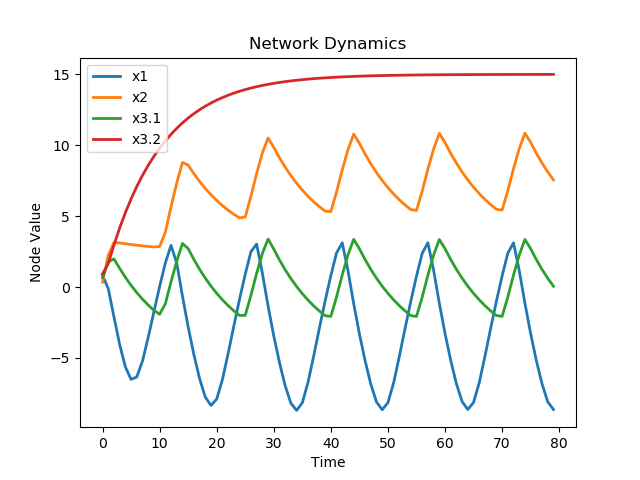
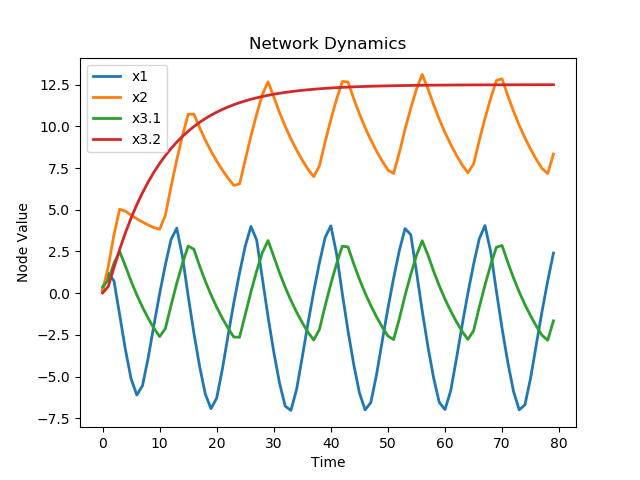
new major test cases

diff --git a/code/workbook.py b/code/workbook.py
@@ -9,39 +9,31 @@ import autograd.numpy as anp
 
 if __name__ == "__main__":
     reload(s)
-    # A = np.array([
-    #     [0,0,0,0,0,0,1],
-    #     [1,0,1,1,0,0,0],
-    #     [0,1,0,0,0,0,0],
-    #     [0,0,1,0,0,0,0],
-    #     [0,0,1,0,0,0,0],
-    #     [0,0,0,1,1,0,1],
-    #     [0,0,0,1,0,1,0]
-    # ])
-    # labels = ["a", "b", "c", 'd','e','f','g']
 
     def sig(x):
-        # print(x)
         return anp.tanh(x)
     def sig2(x):
         y = -2.0*anp.tanh(x)
         return y
     def zero(x):
         return 0*x
+    def chaotic_func1(x):
+        y = anp.tanh(4*x*(1-x)) + 1.75
+        return y
+    def chaotic_func2(x):
+        y = anp.tanh(4*x*(1-x)) + 1.25
+        return y
+    def chaotic_func3(x):
+        y = anp.tanh(4*x*(1-x)) + 0.25
+        return y
     def func1(x):
-        # print(x)
-        y = 9/10*x + 7/4
-        # print(y)
+        y = (9/10)*x + 1.75
         return y
     def func2(x):
-        # print(x)
-        y = 9/10 * x + 5/4
-        # print(y)
+        y = (9/10)*x + 1.25
         return y
     def func3(x):
-        # print(x)
-        y = 9/10 * x + 2/4
-        # print(y)
+        y = (9/10)*x + 0.5
         return y
 
     # basic cohen-grossberg neural network
@@ -55,42 +47,14 @@ if __name__ == "__main__":
         [ sig, zero, zero],
         [ sig, sig, zero]
     ])
-    a = np.array([func1, func2, func3])
+    a = np.array([chaotic_func1, chaotic_func2, chaotic_func3])
     labels = ['x1', 'x2', 'x3']
 
-    # after the first specialization
-    # C = np.array([[0,0,0,1],[0,0,0,1],[0,1,0,0],[1,0,1,0]])
-    # labels2 = ['y1', 'y2', 'y3', 'y4']
-    # b = np.array([func1, func1, func2, func3])
-    # g = np.array([[zero, zero, zero, sig2],
-    #                 [zero, zero, zero, sig2],
-    #                 [zero, sig, zero, zero],
-    #                 [sig, zero, sig, zero]])
-
-
-    # H = s.DirectedGraph(C, (b,g), labels=labels2)
-    # H.iterate(80, np.random.random(H.n), graph=True, save_img=True, title='first spec hard code corrected')
-
-
     G = s.DirectedGraph(B, (a,f), labels=labels)
-    print(G.eigen_centrality(), '\n')
-    print(G.detect_sync(), '\n')
-    # G.iterate_with_perterbations(1000, np.random.random(G.n), ([500], 150), graph=True, save_img=False, title="3 nodes")
 
-    G.specialize(['x1', 'x2'], verbose=False)
-    # G.iterate_with_perterbations(1000, np.random.random(G.n), ([500], 150), graph=True, save_img=False, title="3 nodes")
-    G.iterate(80, np.random.random(G.n), graph=True, save_img=True, title='../graphs/spec on x1, x2')
-    print(G.eigen_centrality(), '\n')
-    print(G.detect_sync(), '\n')
-
-    G.specialize(['x2', 'x3.1', 'x3.2'], verbose=False)
-    # G.iterate_with_perterbations(1000, np.random.random(G.n), ([500], 150), graph=True, save_img=False, title="3 nodes")
-    G.iterate(80, np.random.random(G.n)*10, graph=True, save_img=True, title='../graphs/spec on x2, x31, x32')
-    print(G.eigen_centrality(), '\n')
-    print(G.detect_sync(), '\n')
-
-    # N = nx.DiGraph(G.A.T)
-    # nx.draw_networkx_labels(N, pos=nx.spring_layout(N), labels=G.labeler)
-    # nx.draw(N, pos=nx.spring_layout(N))
-    # plt.draw()
-    # plt.show()
+    for i in range(3):
+        base = np.random.choice(G.indices, 2, replace=False)
+        G.specialize(base)
+    print(G.n)
+    G.iterate_with_perturbations(300, np.random.random(G.n), ([150], 10), graph=True, save_img=True, title='../graphs/chaotic cgnn with perturbation')
+    print(G.spectral_radius())

diff --git a/code/specializer.py b/code/specializer.py
@@ -179,7 +179,7 @@ class DirectedGraph:
                 plt.show()
         return t
 
-    def iterate_with_perterbations(
+    def iterate_with_perturbations(
             self, iters, initial_condition, perterbations,
             graph=False, save_img=False, title=None):
         """
@@ -366,9 +366,9 @@ class DirectedGraph:
 
         # find the indices of the strongly connected set and append them to
         # the end of the base set to for the permutation of A
+
         to_specialize = [i for i in self.indices if i not in base]
         permute = base + to_specialize
-
         # Change the labeler to reflect the permutation and update the indexer
         self.labeler = {i : self.labeler[permute[i]] for i in range(self.n)}
         self._update_indexer()
@@ -412,7 +412,8 @@ class DirectedGraph:
             comp[i] = [self.labeler[i]]
 
         for i in range(num_comp):
-            comp[i+base_size] = [self.labeler[k+base_size] for k in SCComp[i]]
+            temp1 = SCComp[i]
+            comp[i+base_size] = [self.labeler[k+base_size] for k in temp1]
 
         # smallA will for our compressed A matrix lumping together all the
         # strongly connected components

diff --git a/code/workbook3.py b/code/workbook3.py
@@ -10,9 +10,9 @@ import autograd.numpy as anp
 if __name__ == "__main__":
     reload(s)
     A = np.array([
-        [0,0,0,1],
-        [1,0,1,0],
-        [1,1,0,0],
+        [0,1,1,1],
+        [1,0,0,1],
+        [1,1,0,1],
         [0,1,1,0]
     ])
     labelsA = ['x1','x2','x3','x4']
@@ -40,10 +40,10 @@ if __name__ == "__main__":
     ])
     a = np.array([f3,f1,f2,f3])
     G = s.DirectedGraph(A, (a,f), labels=labelsA)
-    G.iterate(80, np.random.random(G.n), graph=True, save_img=True, title="../graphs/test_simple")
-
-    G.specialize(['x1','x4'])
-    G.iterate(80, np.random.random(G.n), graph=True, save_img=True, title="../graphs/test_simple_spec1")
-    print(G.eigen_centrality())
+    
+    for i in range(3):
+        base = np.random.choice(G.indices, 2)
+        G.specialize(base)
+    print(G.n)
+    G.iterate_with_perturbations(300, np.random.random(G.n), ([50], 50), graph=True, save_img=True, title='big network with perturbation')
     print(G.spectral_radius())
-    print(G.detect_sync())
